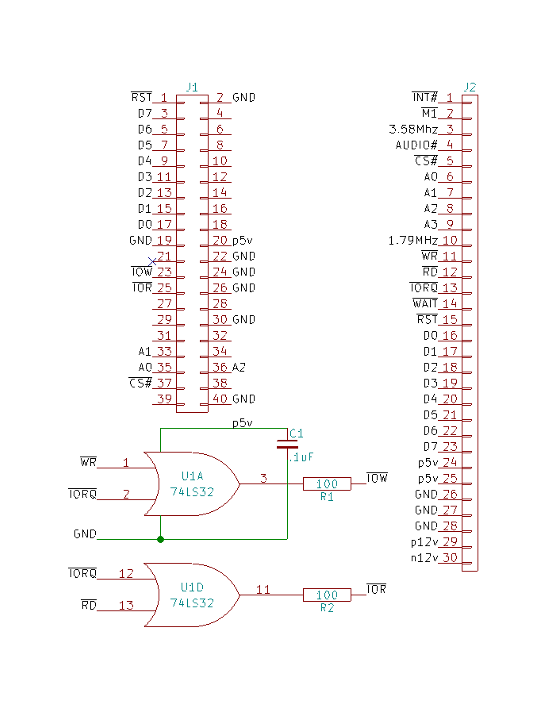
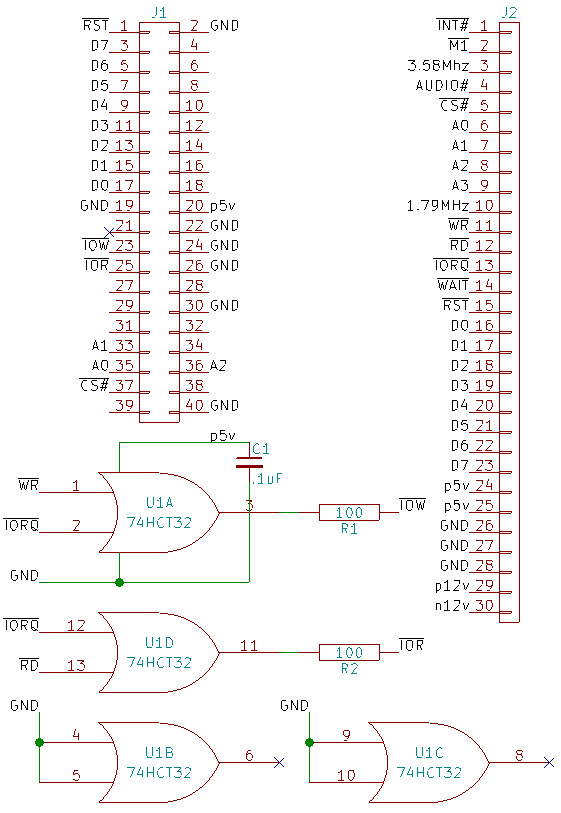
update cf_schematic and link cf_schematic_fdc

diff --git a/cf_adapter/README.md b/cf_adapter/README.md
@@ -4,7 +4,11 @@ The compact flash card interface can be created by connecting the data lines (D0
 
 A working prototype has been shared at [OSH Park](https://oshpark.com/shared_projects/MVhAVmNW)
 
-![schematic](https://github.com/randomvariations/nabu.cpm/blob/main/cf_adapter/images/schematic.png?raw=true)
+![schematic](https://github.com/randomvariations/nabu.cpm/blob/main/cf_adapter/images/cf_schematic.png?raw=true)
+
+For those using the floppy disk controller and wishing to connect the adapter to it directly, this schematic can be used:
+
+![schematic](https://github.com/randomvariations/nabu.cpm/blob/main/cf_adapter/images/cf_schematic_fdc.png?raw=true)
 
 
 [^1]:  Signal integrity has been discovered to be an issue on many of the compact flash and IDE interface designs used by hobbiests on their projects.  The Ultra DMA ATA specification recommends the usage of series termination resistors on most of the IO lines, with values as either 22 ohms or 33 ohms for signals originating from the host or signals that are bidirection respectively.  On my breadboard prototype, I found that I needed to increase the read/write resistors to 100 ohms.  I did not need other resistors for use with the single card that I tested.  A more robust design would include not only series termination resistors as per the specification, but also include buffering in order to ensure that the resistors are placed as close to the source as possible.
